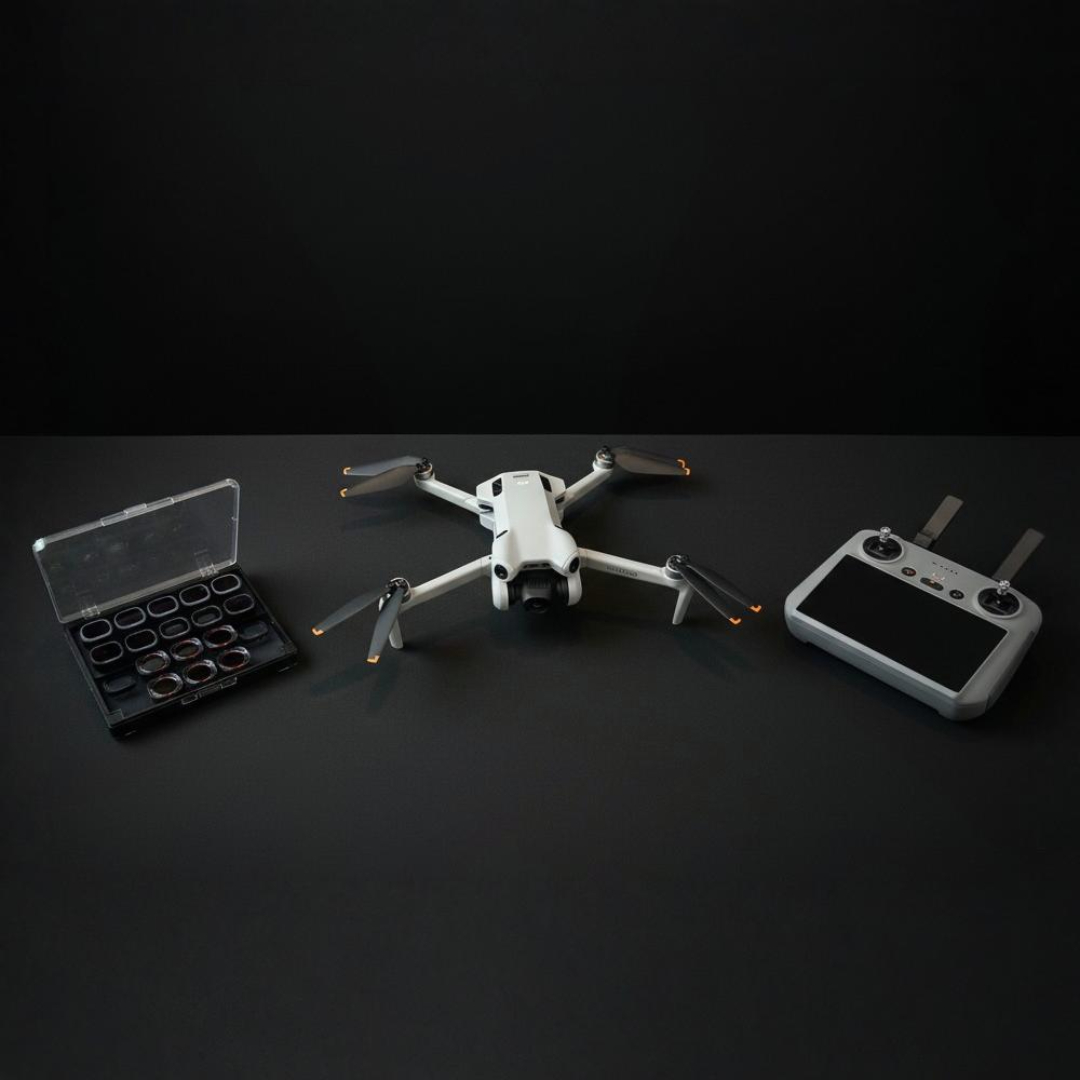
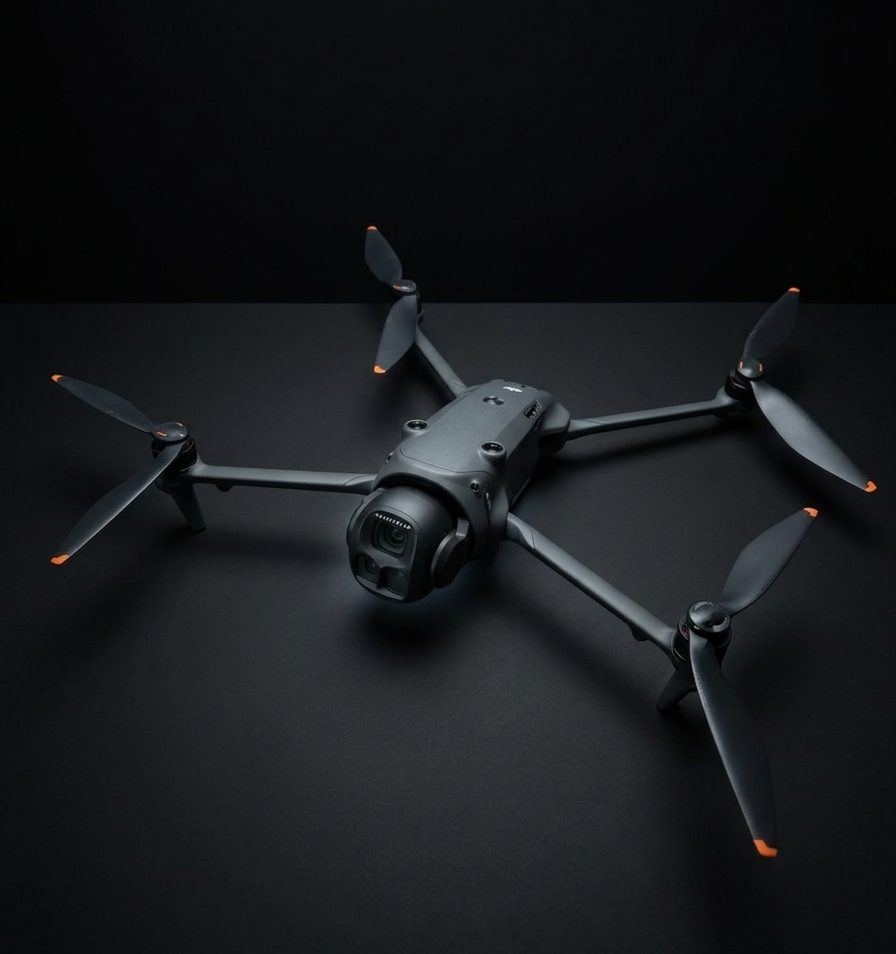
fix: update to new drone

diff --git a/src/routes/+page.svelte b/src/routes/+page.svelte
@@ -397,36 +397,20 @@
             src: droneFull,
             alt: "Drone frame",
             productName: "My Drone Setup",
-            subtitle: "DJI Mini 4 Pro Fly More Combo",
-            link: "https://www.dji.com/ch/mini-4-pro?site=brandsite&from=landing_page",
-        },
-        {
-            src: droneUav,
-            alt: "DJI Mini 4 Pro",
-            productName: "DJI Mini 4 Pro",
-            subtitle:
-                "DJI Mini 4 Pro with a 1-inch sensor and a 48-megapixel camera",
-            link: "https://www.dji.com/ch/mini-4-pro?site=brandsite&from=landing_page",
-        },
-        {
-            src: droneLenses,
-            alt: "DJI Mini 4 Pro Filters",
-            productName: "Freewell Mega Filter Kit",
-            subtitle:
-                "Filters for the DJI Mini 4 Pro to make it work in various light conditions",
-            link: "https://www.galaxus.ch/de/s1/product/freewell-mega-filter-kit-drohnen-filter-dji-mini-4-pro-drohne-zubehoer-40265561",
-        },
+            subtitle: "DJI Mavic 4 Pro",
+            link: "https://www.dji.com/ch/mavic-4-pro",
+        }
     ]}
     items={[
         {
-            name: "DJI Mini 4 Pro",
-            detail: "DJI Mini 4 Pro Fly More Combo",
-            link: "https://www.dji.com/ch/mini-4-pro?site=brandsite&from=landing_page",
+            name: "DJI Mavic 4 Pro",
+            detail: "DJI Mavic 4 Pro Fly More Combo",
+            link: "https://www.dji.com/ch/mavic-4-pro",
         },
         {
-            name: "Freewell Mega Filter Kit",
-            detail: "Filters for the DJI Mini 4 Pro to make it work in various light conditions",
-            link: "https://www.galaxus.ch/de/s1/product/freewell-mega-filter-kit-drohnen-filter-dji-mini-4-pro-drohne-zubehoer-40265561",
+            name: Freewell Split Filters All Day",
+            detail: "Filters for the Mavic 4 Pro to make it work in various light conditions",
+            link: "https://www.digitec.ch/de/s1/product/freewell-split-filters-all-day-drohnen-filter-dji-mavic-4-pro-drohne-zubehoer-59057082",
         },
         {
             name: "Final Cut Pro",
